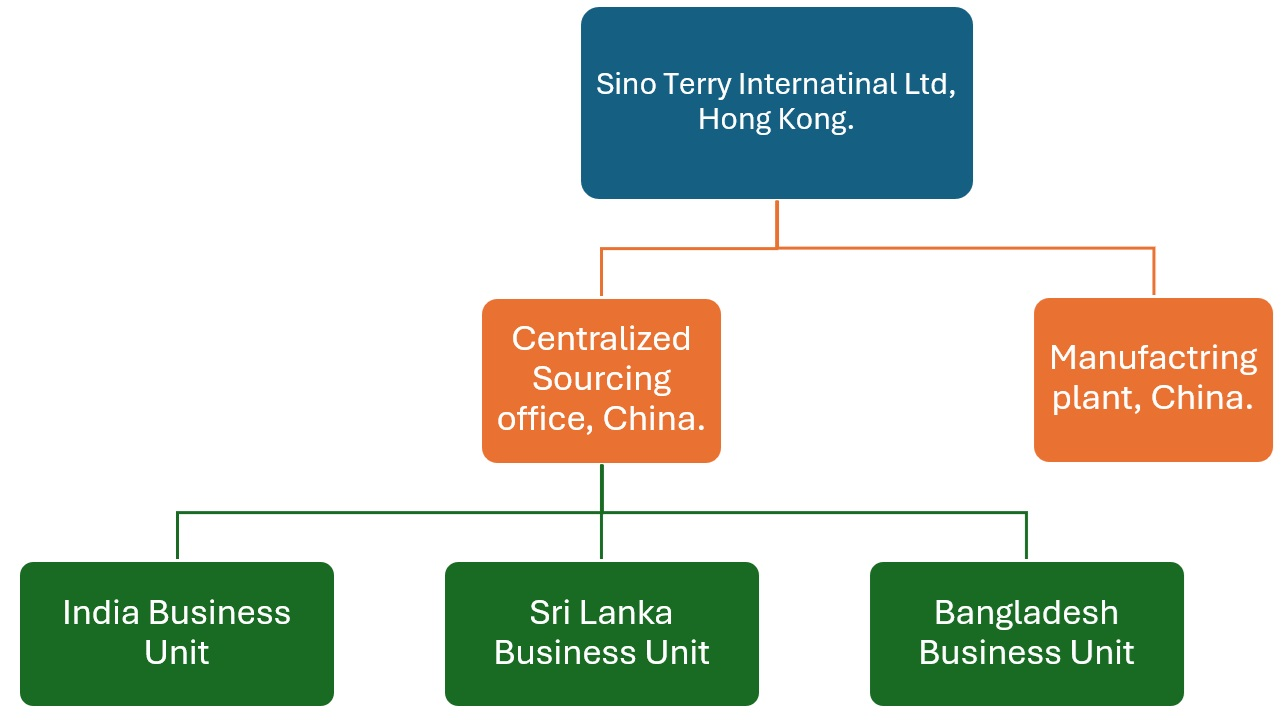
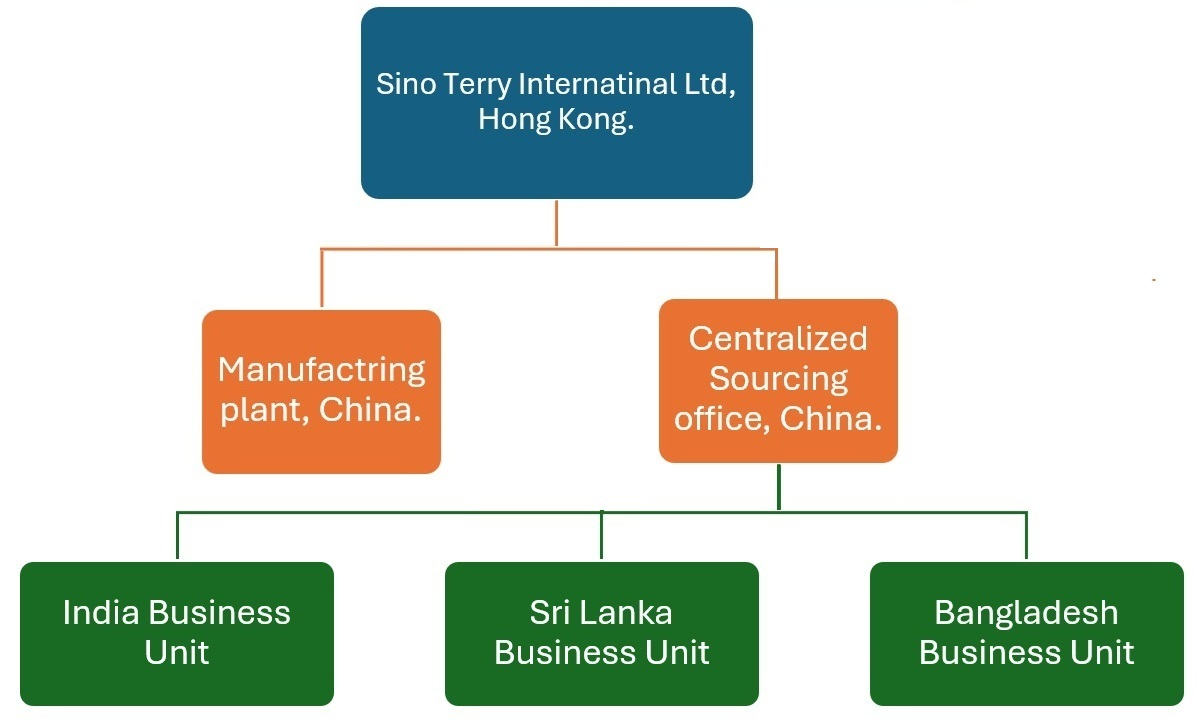
about us

diff --git a/index.html b/index.html
@@ -10,10 +10,11 @@
         integrity="sha384-LN+7fdVzj6u52u30Kp6M/trliBMCMKTyK833zpbD+pXdCLuTusPj697FH4R/5mcr" crossorigin="anonymous">
     <link rel="icon" href="./assests/sino-logos/favicon.jpg" type="image/x-icon">
     <link href="https://unpkg.com/aos@2.3.1/dist/aos.css" rel="stylesheet">
+
 </head>
 
 <body>
-    <nav class="navbar navbar-expand-lg bg-white">
+    <nav class="navbar navbar-expand-lg bg-white sticky-top">
         <div class="container-fluid">
             <a class="navbar-brand d-flex align-items-baseline" href="#">
                 <img src="./assests/logos/logo.jpg" alt="Logo" width="auto" height="30" class="d-inline-block me-3">
@@ -27,10 +28,10 @@
             <div class="collapse navbar-collapse" id="navbarSupportedContent">
                 <ul class="navbar-nav ms-auto mb-2 mb-lg-0">
                     <li class="nav-item">
-                        <a class="nav-link active" aria-current="page" href="#">Home</a>
+                        <a class="nav-link active" aria-current="page" href="#home">Home</a>
                     </li>
                     <li class="nav-item">
-                        <a class="nav-link" href="#">About</a>
+                        <a class="nav-link" href="#about">About</a>
                     </li>
                     <li class="nav-item dropdown">
                         <a class="nav-link dropdown-toggle" href="#" role="button" data-bs-toggle="dropdown"
@@ -56,39 +57,81 @@
 
     <section id="home">
         <div class="container">
-            <div class="row align-items-center d-flex">
+            <div class="row align-items-center d-flex mb-5">
                 <div class="col-md-6 px-4 px-md-5">
-                    <h1 class="display-2 mb-4">Apparel <b>accessories</b>
-                    </h1>
-                    <p class="lead mb-3 mb-lg-4">Add value to your styles using our out-of-the-box trims, or design your
-                        own.
-                    </p>
-                    <img class="img-fluid d-md-none mb-3" data-aos="fade-left" data-aos-duration="1500"
-                        src="./assests/images/hero-lg.jpeg" alt="a male model">
-                    <div class="d-flex gap-4 mb-4 justify-content-center justify-content-md-start">
+                    <h1 class="display-2 mb-4">Apparel <b>accessories</b></h1>
+                    <p class="lead pb-1 pb-lg-4">Add value to your styles using our out-of-the-box trims, or design your
+                        own.</p>
+                    <div class="d-flex gap-4 pb-4 justify-content-center justify-content-md-start">
                         <button class="hero-button">Products</button>
                         <button class="hero-button">Contact Us</button>
                     </div>
-                    <div class="d-flex flex-wrap gap-4 align-items-center mt-3" data-aos="fade-up" data-aos-delay="500" data-aos-duration="1500">
+                    <img class="img-fluid d-md-none mb-3" src="./assests/images/hero-lg.jpeg" alt="a male model">
+                    <div class="d-flex flex-wrap pt-3" data-aos="fade-up" data-aos-delay="100">
                         <span class="lead">Our products are used by popular brands worldwide!</span>
-                        <img class="img-fluid" src="./assests/logos/LE.png" alt="Lands End logo"
-                            style="height: 25px; width: auto;">
-                        <img class="img-fluid" src="./assests/logos/quince.jpg" alt="Quince logo"
-                            style="height: 25px; width: auto;">
-                        <img class="img-fluid" src="./assests/logos/CB.png" alt="Cleobella logo"
-                            style="height: 25px; width: auto;">
-                        <img class="img-fluid" src="./assests/logos/S&S.png" alt="Shade & Shore logo"
-                            style="height: 25px; width: auto;">
+                        <div class="d-flex flex-wrap gap-4 justify-content-around align-items-center pt-3">
+                            <img class="img-fluid" src="./assests/logos/LE.png" alt="Lands End logo"
+                                style="height: 25px; width: auto;">
+                            <img class="img-fluid" src="./assests/logos/quince.jpg" alt="Quince logo"
+                                style="height: 25px; width: auto;">
+                            <img class="img-fluid" src="./assests/logos/CB.png" alt="Cleobella logo"
+                                style="height: 25px; width: auto;">
+                            <img class="img-fluid" src="./assests/logos/S&S.png" alt="Shade & Shore logo"
+                                style="height: 25px; width: auto;">
+                        </div>
                     </div>
                 </div>
                 <div class="col-md-6">
-                    <img class="img-fluid d-none d-md-block" data-aos="fade-left" data-aos-duration="1500"
-                        src="./assests/images/hero-lg.jpeg" alt="a male model">
+                    <img class="img-fluid d-none d-md-block" src="./assests/images/hero-lg.jpeg" alt="a male model">
                 </div>
             </div>
         </div>
     </section>
 
+    <section id="about">
+        <div class="container">
+            <div class="row align-items-center text-center d-flex mx-2 mx-md-5 pt-5 pb-5">
+                <h2 class="display-6 fw-medium" data-aos="fade-up" data-aos-duration="500">About Us</h2>
+                <h3 class="fw-light" data-aos="fade-up" data-aos="fade-up" data-aos-duration="500">Sino Terry is a
+                    reliable company offering high-quality apparel accessories at affordable prices.</h3>
+            </div>
+
+            <div class="row d-flex lign-items-center mx-2 mx-md-5" data-aos="fade-up" data-aos-duration="1000">
+                <div class="col-md-6 px-3 px-md-4">
+                    <p class="lead">SINO was incorporated in Hong Kong in 2000, primarily as a trader of apparel
+                        accessories. In 2007, the company acquired a fully-fledged metal trims manufacturing plant in
+                        China to address the challenges encountered with third-party metal injection technologies.
+                    </p>
+
+                    <p class="lead">Today, the company supplies a wide range of garment accessories, from metal to
+                        plastic and
+                        eco-friendly trims.
+                    </p>
+
+                    <p class="lead">Our team comprises of sales and customer service personnel deployed in China, India,
+                        Sri Lanka,
+                        and Bangladesh. They work closely with the manufacturing plant and sourcing centre in China to
+                        execute customer inquiries and orders.
+                    </p>
+
+                    <p class="lead">The entire process is managed by the executive leadership at the head office in Hong
+                        Kong.
+                    </p>
+                </div>
+                <div class="d-flex flex-column justify-content-between col-md-6 px-4 px-md-5" data-aos="zoom-in"
+                    data-aos-duration="1000" data-aos-delay="500">
+                    <div class="stat-card mb-3">
+                        <span class="fs-4">10 million pieces</span>
+                        <p class="lead">sold annually.</p>
+                    </div>
+                    <div class="stat-card mb-3">
+                        <span class="fs-4">2000+ designs</span>
+                        <p class="lead">availble to choose from..</p>
+                    </div>
+                    <img class="img-fluid" src="./assests/images/team.jpg" alt="business structure">
+                </div>
+            </div>
+    </section>
 
     <script src="https://cdn.jsdelivr.net/npm/bootstrap@5.3.7/dist/js/bootstrap.bundle.min.js"
         integrity="sha384-ndDqU0Gzau9qJ1lfW4pNLlhNTkCfHzAVBReH9diLvGRem5+R9g2FzA8ZGN954O5Q"
@@ -97,6 +140,7 @@
     <script>
         AOS.init();
     </script>
+
 </body>
 
 </html>

diff --git a/assests/styles.css b/assests/styles.css
@@ -1,7 +1,3 @@
-:root {
-    --primary-color: #621769;
-}
-
 body {
     margin: 10px 15px 0 10px !important;
 }
@@ -14,13 +10,24 @@ body {
 
 .brand-name {
     font-family: Gabriola, sans-serif;
-    color: var(--primary-color);
+    color: rebeccapurple;
+}
+
+#home img {
+    opacity: 0.1;
+    animation: fadeUp 1.5s ease-in forwards;
+}
+
+@keyframes fadeUp {
+    to {
+        opacity: 1;
+    }
 }
 
 .hero-button {
-    color: var(--primary-color) !important;
+    color: rebeccapurple !important;
     background-color: white;
-    border: solid var(--primary-color) 2px !important;
+    border: solid rebeccapurple 2px !important;
     border-radius: 7px;
     font-weight: 600;
     padding: 4px 20px;
@@ -28,9 +35,22 @@ body {
 
 .hero-button:hover, .hero-button:active, .hero-button:focus {
   color: white !important;
-  background-color: var(--primary-color) !important;
+  background-color: rebeccapurple !important;
 }
 
-.animate__animated.animate__fadeIn {
-  --animate-duration: 4s;
+#about h3 {
+    line-height: 1.5;
+    color: rebeccapurple;
+}
+
+#about p {
+    line-height: 1.5;
+}
+
+.stat-card {
+    padding: 5px;
+    color: white;
+    background-color: rebeccapurple;
+    text-align: center;
+    border-radius: 8px;
 }
